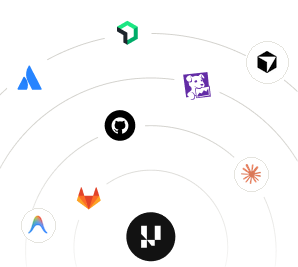
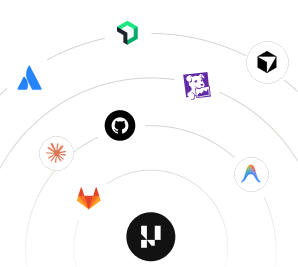
Boxes meet the margins, Claude sits above GitLab in the orbit
The pioneer, bento, stories and reasons surfaces pull flush to the
vertical guides while headings keep their 16px; the Flow diagram
keeps its padding as drawn. The integrations plate is rebuilt from
the clean original: Cursor top right, Antigravity mid right, and the
Anthropic spark just above GitLab.

diff --git a/lithos/src/sections/Reasons.tsx b/lithos/src/sections/Reasons.tsx
@@ -53,7 +53,7 @@ export default function Reasons() {
 
       {/* one continuous grid — flush cells, hairline dividers, square corners */}
       <Reveal delay={0.08}>
-        <div className="border border-border-muted bg-surface">
+        <div className="-mx-4 border border-border-muted bg-surface">
           {/* numbers */}
           <div className="grid sm:grid-cols-2 lg:grid-cols-4">
             {stats.map((s, i) => (

diff --git a/lithos/src/sections/Bento.tsx b/lithos/src/sections/Bento.tsx
@@ -93,7 +93,7 @@ export default function Bento() {
       </Reveal>
 
       <Reveal delay={0.08}>
-        <div className="grid border border-border-muted bg-surface md:grid-cols-2">
+        <div className="-mx-4 grid border border-border-muted bg-surface md:grid-cols-2">
           <div className="border-border-muted max-md:border-b md:border-r">
             <Card index={0} />
           </div>

diff --git a/lithos/src/sections/Stories.tsx b/lithos/src/sections/Stories.tsx
@@ -75,7 +75,7 @@ export default function Stories() {
       </Reveal>
 
       <Reveal delay={0.08}>
-        <div className="overflow-hidden  border border-border-muted bg-surface">
+        <div className="-mx-4 overflow-hidden border border-border-muted bg-surface">
           {/* headline case */}
           <div className="grid lg:grid-cols-[1.35fr_1fr]">
             <div>

diff --git a/lithos/src/sections/Unified.tsx b/lithos/src/sections/Unified.tsx
@@ -121,7 +121,7 @@ export default function Unified() {
       </Reveal>
 
       <Reveal delay={0.08}>
-        <div className="border border-border-muted bg-surface">
+        <div className="-mx-4 border border-border-muted bg-surface">
           <div className="grid md:grid-cols-2">
             {BIG_IDS.map((id, i) => (
               <BigCard key={id} id={id} index={i} />
